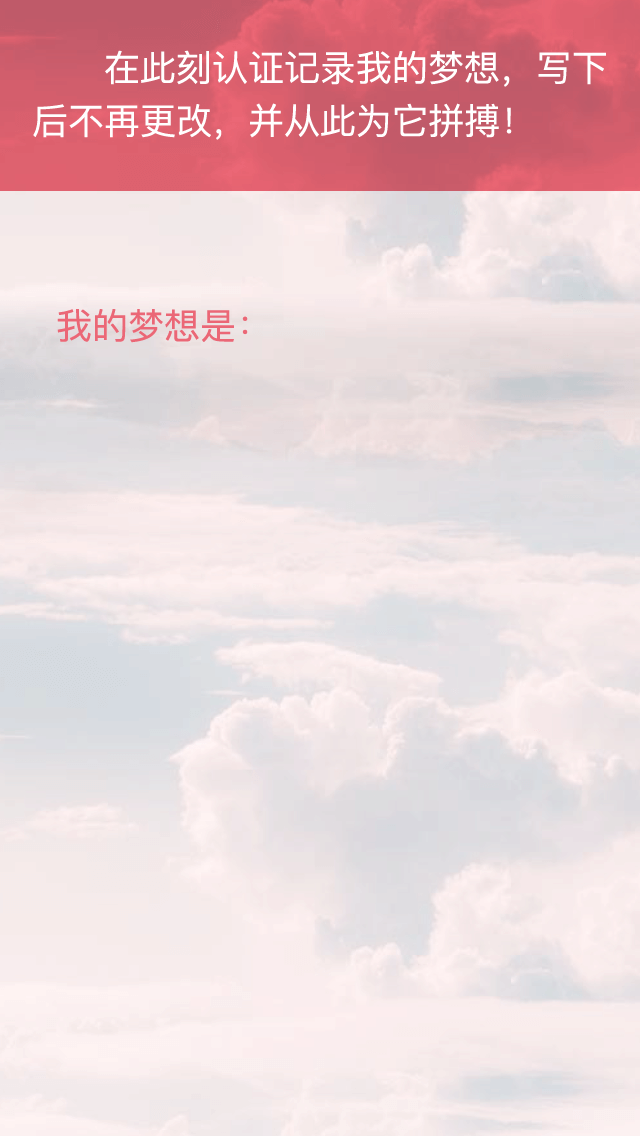
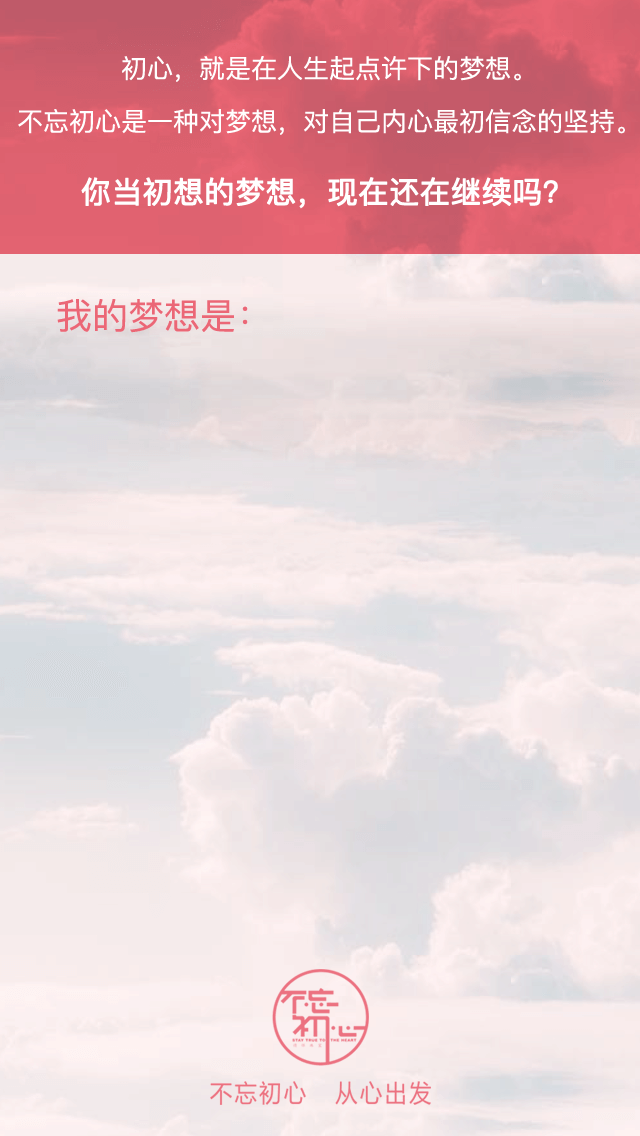
fix: 修改；

diff --git a/resource/dream.css b/resource/dream.css
@@ -13,7 +13,7 @@ html,body {
     height: 100%;
     overflow: hidden;
     background: url('../images/dream/background.png') no-repeat;
-    background-size: 100% auto;
+    background-size: 100% 100%;
     text-align: center;
     position: absolute;
     z-index: 100;
@@ -37,7 +37,7 @@ html,body {
     height:  19.000000000rem;
     background: url('../images/dream/textarea.png') no-repeat;
     background-size: 100% 100%;
-    margin: 15.833333333rem auto 1.666666667rem;;
+    margin: 15.000000000rem auto 1.666666667rem;;
 }
 .textarea-wrap .text {
     background-color: transparent;
@@ -56,7 +56,7 @@ html,body {
     box-sizing: border-box;
 }
 .first .button {
-    width: 18.916666667rem;
+    width: 23.333333333rem;
     height: 2.833333333rem;
     line-height: 2.750000000rem;
     background-color: #ffffff;
@@ -68,7 +68,7 @@ html,body {
     border: 0.083333333rem solid #eb6877;
     /*margin: 6.416666667rem auto 0;*/
     position: fixed;
-    bottom: 1.916666667rem;
+    bottom: 7.333333333rem;
     margin: auto;
     left: 0;
     right: 0;

diff --git a/css/dream.css b/css/dream.css
@@ -13,7 +13,7 @@ html,body {
     height: 100%;
     overflow: hidden;
     background: url('../images/dream/background.png') no-repeat;
-    background-size: 100% auto;
+    background-size: 100% 100%;
     text-align: center;
     position: absolute;
     z-index: 100;
@@ -37,7 +37,7 @@ html,body {
     height:  228px;
     background: url('../images/dream/textarea.png') no-repeat;
     background-size: 100% 100%;
-    margin: 190px auto 20px;;
+    margin: 180px auto 20px;;
 }
 .textarea-wrap .text {
     background-color: transparent;
@@ -56,7 +56,7 @@ html,body {
     box-sizing: border-box;
 }
 .first .button {
-    width: 227px;
+    width: 280px;
     height: 34px;
     line-height: 33px;
     background-color: #ffffff;
@@ -68,7 +68,7 @@ html,body {
     border: 1px solid #eb6877;
     /*margin: 77px auto 0;*/
     position: fixed;
-    bottom: 23px;
+    bottom: 88px;
     margin: auto;
     left: 0;
     right: 0;

diff --git a/resource/share.css b/resource/share.css
@@ -66,7 +66,7 @@ html,body {
 }
 
 .first .button {
-    width: 18.916666667rem;
+    width: 23.333333333rem;
     height: 2.833333333rem;
     line-height: 2.750000000rem;
     background-color: #ffffff;
@@ -76,7 +76,7 @@ html,body {
     font-weight: 600;
     border-radius: 3.333333333rem;
     border: 0.083333333rem solid #eb6877;
-    margin: 6.416666667rem auto 1.666666667rem;;
+    margin: 3.416666667rem auto 1.666666667rem;;
 }
 .top .person,
 .tops .person {
@@ -103,4 +103,12 @@ html,body {
     background-color: #f48e99;
     text-align: left;
     margin-top: 3.916666667rem;
+}
+.first .logo {
+    width: 9.208333333rem;
+    height: 5.666666667rem;
+    display: inline-block;
+    background: url('../images/dream/logo.png') no-repeat;
+    background-size: 100% 100%;
+    margin-bottom: 1.333333333rem;
 }

diff --git a/css/share.css b/css/share.css
@@ -66,7 +66,7 @@ html,body {
 }
 
 .first .button {
-    width: 227px;
+    width: 280px;
     height: 34px;
     line-height: 33px;
     background-color: #ffffff;
@@ -76,7 +76,7 @@ html,body {
     font-weight: 600;
     border-radius: 40px;
     border: 1px solid #eb6877;
-    margin: 77px auto 20px;;
+    margin: 41px auto 20px;;
 }
 .top .person,
 .tops .person {
@@ -103,4 +103,12 @@ html,body {
     background-color: #f48e99;
     text-align: left;
     margin-top: 47px;
+}
+.first .logo {
+    width: 110.5px;
+    height: 68px;
+    display: inline-block;
+    background: url('../images/dream/logo.png') no-repeat;
+    background-size: 100% 100%;
+    margin-bottom: 16px;
 }

diff --git a/resource/show.css b/resource/show.css
@@ -21,7 +21,7 @@ html,body {
     /*display: none;*/
 }
 .first .button {
-    width: 18.916666667rem;
+    width: 23.333333333rem;
     height: 2.833333333rem;
     line-height: 2.750000000rem;
     background-color: #ffffff;

diff --git a/css/show.css b/css/show.css
@@ -21,7 +21,7 @@ html,body {
     /*display: none;*/
 }
 .first .button {
-    width: 227px;
+    width: 280px;
     height: 34px;
     line-height: 33px;
     background-color: #ffffff;

diff --git a/protected/views/dream/share.php b/protected/views/dream/share.php
@@ -43,6 +43,7 @@
             </div> -->
             <div class="middle">快点此记录你的梦想，跟<?php echo($dreamItem->nickname); ?>一起并肩战斗吧~~~</div>
             <div class="button">写下我的梦想</div>
+            <div class="logo"></div>
         </div>
     </div>
 
